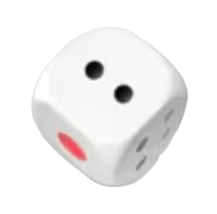
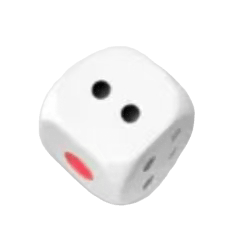
优化骰子素材

diff --git a/src/Client/GameWindow.java b/src/Client/GameWindow.java
@@ -10,6 +10,7 @@ import static java.lang.Thread.sleep;
 
 public class GameWindow extends JPanel{
 
+    public int i = 1;
     Player player;//当前客户端玩家
     //游戏主框架
     JFrame mainFrame = new JFrame("Game");
@@ -22,6 +23,14 @@ public class GameWindow extends JPanel{
     JButton readyButton = new JButton(ready);
     //取消准备按钮图
     ImageIcon unReady = new ImageIcon("unready.png");
+    //骰子的图片
+    ImageIcon dice1 = new ImageIcon("Dice1.png");
+    ImageIcon dice2 = new ImageIcon("Dice2.png");
+    ImageIcon dice3 = new ImageIcon("Dice3.png");
+    ImageIcon dice4 = new ImageIcon("Dice4.png");
+    ImageIcon dice5 = new ImageIcon("Dice5.png");
+    ImageIcon dice6 = new ImageIcon("Dice6.png");
+    JButton diceButton = new JButton(dice1);
 //    //窗口位置
 //    int x;
 //    int y;
@@ -58,6 +67,12 @@ public class GameWindow extends JPanel{
         readyButton.setBounds(1920 / 2 - ready.getIconWidth() - 40, 1080 / 2 + ready.getIconHeight(), ready.getIconWidth()-1, ready.getIconHeight());
         readyButton.setOpaque(false);
         mainFrame.getLayeredPane().add(readyButton);
+
+        diceButton.setContentAreaFilled(false);
+        diceButton.setBorder(null);
+        diceButton.setBounds(1920 / 2 - diceButton.getIcon().getIconWidth() - 40, 1080 / 2 - diceButton.getIcon().getIconHeight() + 80, diceButton.getIcon().getIconWidth()-1,diceButton.getIcon().getIconHeight());
+        diceButton.setOpaque(false);
+        mainFrame.getLayeredPane().add(diceButton);
 
         readyButton.addActionListener(e -> {
             if(!player.isReady) {
@@ -125,9 +140,36 @@ public class GameWindow extends JPanel{
                 }
             }
         });
-//        (new Timer(16, (e) -> {
-//            this.repaint();
-//        })).start();
+        (new Timer(100, (e) -> {
+            i = (i+1) % 6;
+            switch (i)
+            {
+                case 0:
+                    diceButton.setIcon(new ImageIcon("Dice1.png"));
+                    System.out.println(i);
+                    break;
+                case 1:
+                    diceButton.setIcon(new ImageIcon("Dice2.png"));
+                    System.out.println(i);
+                    break;
+                case 2:
+                    diceButton.setIcon(new ImageIcon("Dice3.png"));
+                    System.out.println(i);
+                    break;
+                case 3:
+                    diceButton.setIcon(new ImageIcon("Dice4.png"));
+                    System.out.println(i);
+                    break;
+                case 4:
+                    diceButton.setIcon(new ImageIcon("Dice5.png"));
+                    System.out.println(i);
+                    break;
+                case 5:
+                    diceButton.setIcon(new ImageIcon("Dice6.png"));
+                    System.out.println(i);
+                    break;
+            }
+        })).start();
     }
 
     public void setPlayer(Player player){
